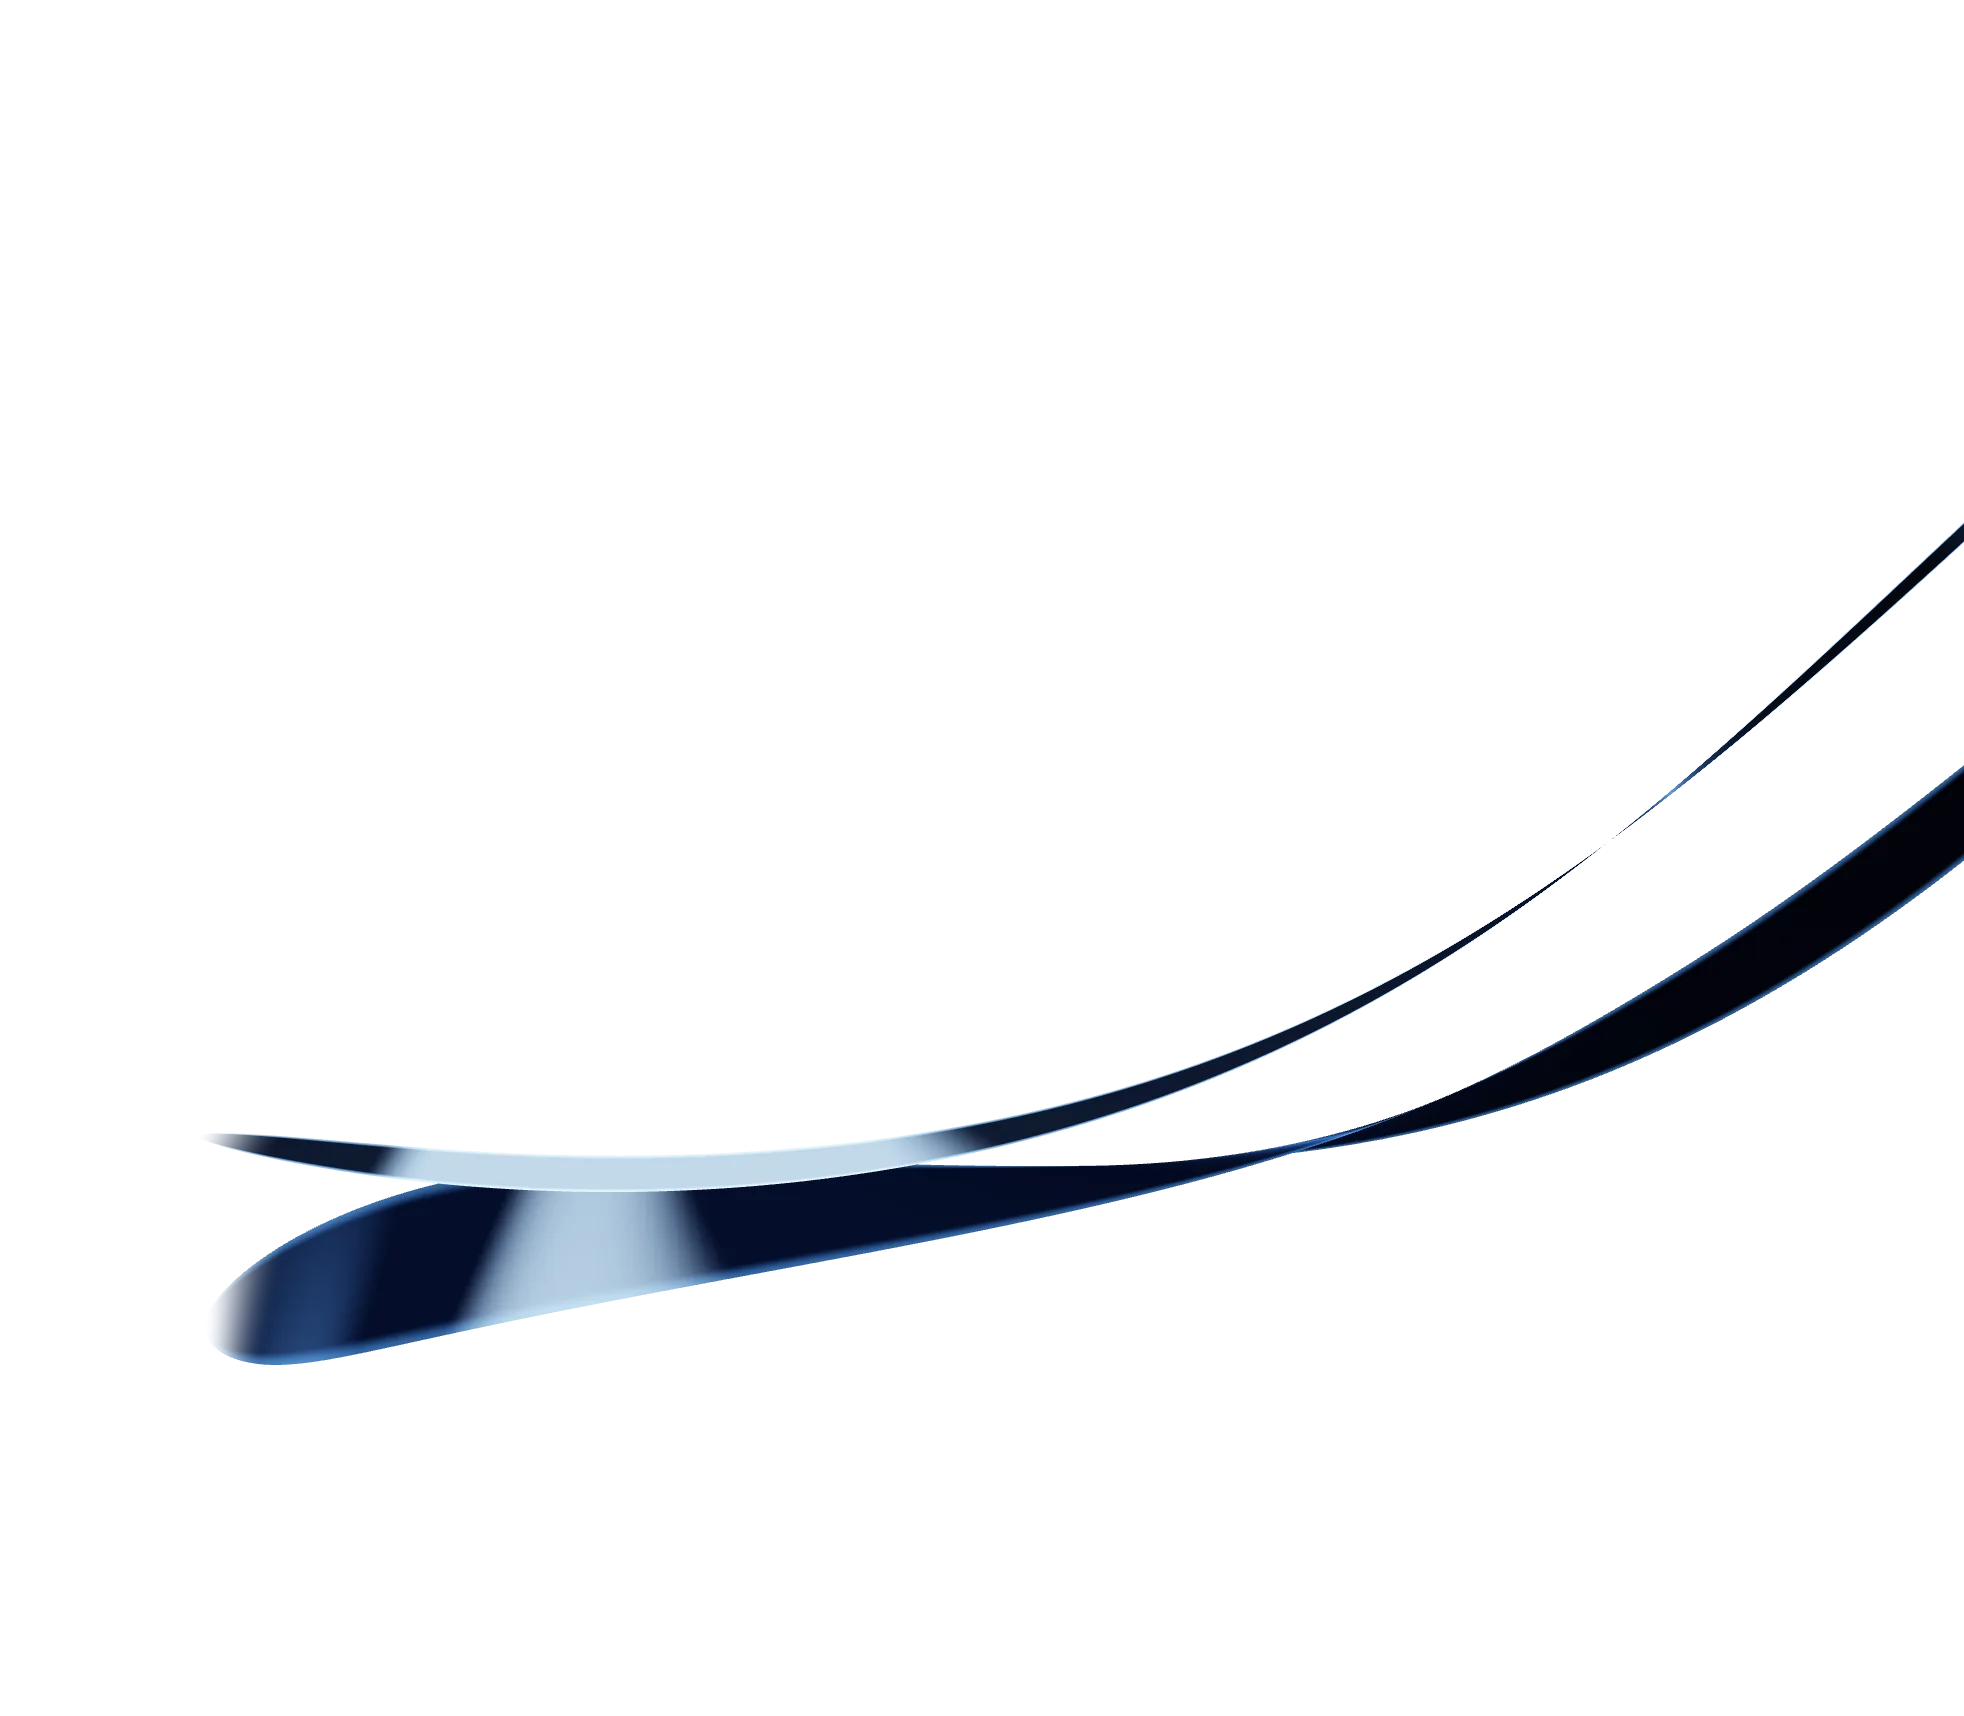
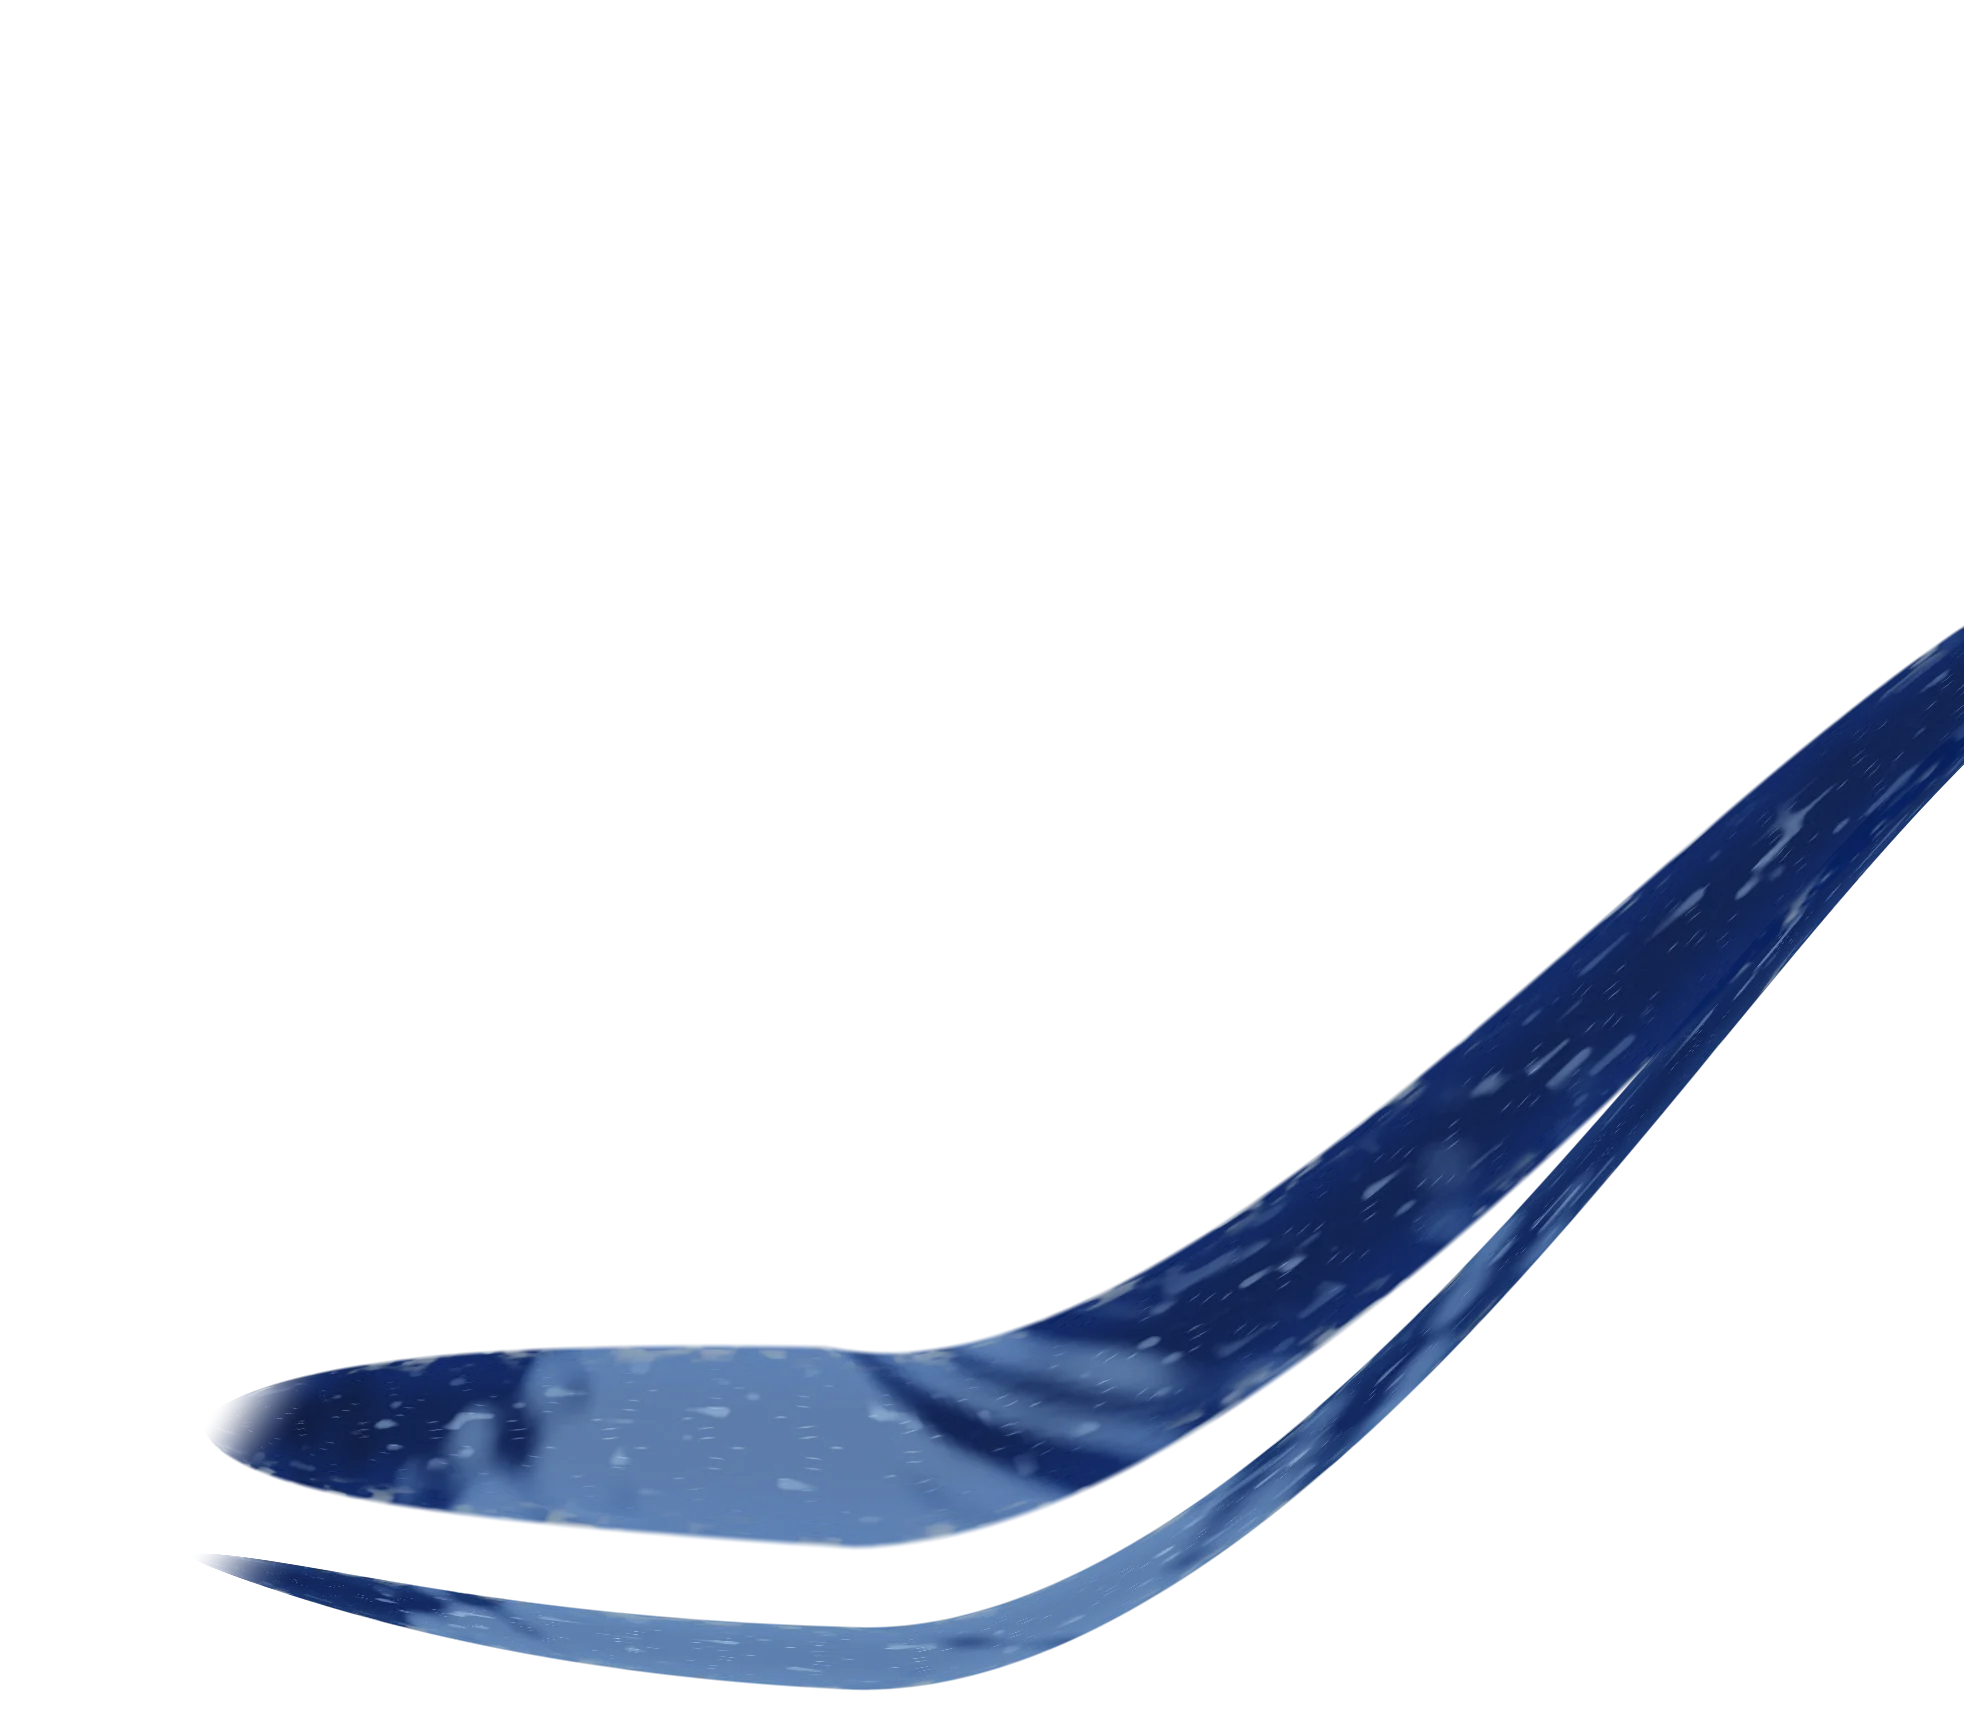
Hero preview: ribbon becomes flowing river water (ripples, glints, foam, caustics)
Claude-Session: https://claude.ai/code/session_01YW5GWSFXy2DhoF652oL58q

diff --git a/hero3d/hero.js b/hero3d/hero.js
@@ -90,26 +90,46 @@
   if(lowPower) dpr=Math.min(dpr,1);
   if(STILL){ lowPower=false; dpr=2; }
 
-  var VS='attribute vec3 aP;attribute vec3 aN;attribute vec2 aU;uniform mat4 uPV;uniform mat4 uM;varying vec3 vW;varying vec3 vN;varying vec2 vU;'+
-    'void main(){vec4 w=uM*vec4(aP,1.0);vW=w.xyz;vN=mat3(uM)*aN;vU=aU;gl_Position=uPV*w;}';
-  var FS='#ifdef GL_FRAGMENT_PRECISION_HIGH\nprecision highp float;\n#else\nprecision mediump float;\n#endif\nvarying vec3 vW;varying vec3 vN;varying vec2 vU;uniform vec3 uCam;uniform vec3 uL;uniform vec3 uF0;uniform float uSide;uniform float uCut;uniform float uTint;'+
-    'vec3 env(vec3 r){float up=r.y;vec3 c=mix(vec3(.003,.008,.03),vec3(.012,.045,.15),smoothstep(-.7,.6,up));'+
-    'c+=vec3(.62,.8,1.)*smoothstep(.68,.8,up)*smoothstep(.9,.6,abs(r.x))*1.7;'+
-    'c+=vec3(.08,.38,1.)*smoothstep(.6,.74,r.x)*1.8;'+
-    'c+=vec3(.3,.56,1.)*smoothstep(.74,.86,-r.x)*smoothstep(-.3,.5,up)*1.1;'+
-    'c+=vec3(.18,.45,1.)*exp(-abs(up+.08)*34.)*1.1;return c;}'+
+  var VS='attribute vec3 aP;attribute vec3 aN;attribute vec2 aU;attribute vec3 aT;attribute vec3 aS;uniform mat4 uPV;uniform mat4 uM;varying vec3 vW;varying vec3 vN;varying vec3 vT;varying vec3 vS;varying vec2 vU;varying float vZ;'+
+    'void main(){vec4 w=uM*vec4(aP,1.0);vW=w.xyz;vZ=aP.z;mat3 m=mat3(uM);vN=m*aN;vT=m*aT;vS=m*aS;vU=aU;gl_Position=uPV*w;}';
+  /* water: flowing ripples (analytic waves + noise), fresnel reflection of a soft sky, deep-to-shallow body colour,
+     caustic light, sun glints and foam along the banks. Everything flows along the river (+u). */
+  var FS='#ifdef GL_FRAGMENT_PRECISION_HIGH\nprecision highp float;\n#else\nprecision mediump float;\n#endif\n'+
+    'varying vec3 vW;varying vec3 vN;varying vec3 vT;varying vec3 vS;varying vec2 vU;varying float vZ;uniform vec3 uCam;uniform vec3 uL;uniform float uSide;uniform float uCut;uniform float uTint;uniform float uT;'+
+    'float hash(vec2 p){return fract(sin(dot(p,vec2(127.1,311.7)))*43758.5453);}'+
+    'float noise(vec2 p){vec2 i=floor(p),f=fract(p);f=f*f*(3.-2.*f);return mix(mix(hash(i),hash(i+vec2(1.,0.)),f.x),mix(hash(i+vec2(0.,1.)),hash(i+vec2(1.,1.)),f.x),f.y);}'+
+    'vec3 sky(vec3 r){float up=r.y;vec3 c=mix(vec3(.004,.012,.05),vec3(.025,.09,.3),smoothstep(-.4,.7,up));'+
+    'c+=vec3(.55,.75,1.)*smoothstep(.78,.96,up)*.6;c+=vec3(.15,.42,1.)*exp(-abs(up-.05)*22.)*.35;'+
+    'c+=vec3(.2,.5,1.)*smoothstep(.65,.9,r.x)*.4;return c;}'+
     'void main(){'+
-    'if(uSide>.5&&uSide<1.5){if(vW.z<uCut)discard;}else if(uSide<.5){if(vW.z>=uCut)discard;}'+
-    'vec3 N=normalize(vN);if(!gl_FrontFacing)N=-N;vec3 V=normalize(uCam-vW);'+
-    'float nv=max(dot(N,V),0.);vec3 F=uF0+(1.-uF0)*pow(1.-nv,5.);'+
-    'vec3 col=env(reflect(-V,N))*F;'+
-    'vec3 L=normalize(uL);col+=pow(max(dot(reflect(-L,N),V),0.),70.)*vec3(.9,.95,1.)*1.3;'+
-    'col+=pow(max(dot(reflect(-normalize(vec3(-1.,.3,.6)),N),V),0.),30.)*vec3(.15,.4,1.)*.6;'+
-    'col+=vec3(.02,.05,.14)*max(dot(N,L),0.);'+
-    'float e=smoothstep(.40,.5,abs(vU.y-.5));col+=vec3(.25,.55,1.)*e*(.7+uTint);'+
-    'col=mix(col,vec3(.55,.75,1.)*col.b*1.4,uTint*.35);'+
-    'col=1.-exp(-col*1.2);'+
-    'float a=smoothstep(0.,.07,vU.x)*smoothstep(1.,.9,vU.x);'+
+    'if(uSide>.5&&uSide<1.5){if(vZ<uCut)discard;}else if(uSide<.5){if(vZ>=uCut)discard;}'+
+    'float fl=uT*1.5;vec2 q=vec2(vU.x*30.,vU.y*4.);'+
+    'vec2 g=vec2(1.,.35)*cos(q.x+q.y*.35-fl)*.5'+
+    '+vec2(1.7,-.8)*cos(q.x*1.7-q.y*.8-fl*1.45+1.3)*.3'+
+    '+vec2(2.9,1.6)*cos(q.x*2.9+q.y*1.6-fl*2.1+2.1)*.16'+
+    '+vec2(4.7,-2.3)*cos(q.x*4.7-q.y*2.3-fl*2.9+.7)*.09;'+
+    'vec2 nq=vec2(q.x*5.-fl*3.6,q.y*6.);float n0=noise(nq),nx=noise(nq+vec2(.05,0.)),ny=noise(nq+vec2(0.,.05));'+
+    'g+=vec2(nx-n0,ny-n0)/.05*.05;'+
+    'vec3 N=normalize(vN);if(!gl_FrontFacing)N=-N;vec3 T=normalize(vT),S=normalize(vS);'+
+    'N=normalize(N-(T*g.x+S*g.y)*.14);'+
+    'vec3 V=normalize(uCam-vW);float nv=max(dot(N,V),0.);float F=.02+.83*pow(1.-nv,5.);'+
+    'float ac=1.-abs(vU.y-.5)*2.;'+
+    'vec3 deep=mix(vec3(.002,.018,.085),vec3(.02,.12,.4),uTint),shallow=mix(vec3(.02,.2,.72),vec3(.2,.5,1.),uTint);'+
+    'vec3 body=mix(shallow,deep,smoothstep(.05,.85,ac));'+
+    'float c1=noise(vec2(q.x*.9-fl*.9,q.y*1.4)*3.4),c2=noise(vec2(q.x*1.15-fl*1.25+5.2,q.y*1.7+2.)*3.4);'+
+    'float caus=pow(clamp(1.-abs(c1-c2)*2.6,0.,1.),10.);body+=vec3(.3,.62,1.)*caus*.3*ac;'+
+    'vec3 col=mix(body,sky(reflect(-V,N)),F);'+
+    'vec3 L=normalize(uL);float rl=max(dot(reflect(-L,N),V),0.);'+
+    'col+=vec3(1.)*pow(rl,260.)*3.;col+=vec3(.3,.58,1.)*pow(rl,20.)*.35;'+
+    'float w1=sin(vU.x*150.-fl*6.+3.*sin(vU.y*21.+vU.x*9.)),w2=sin(vU.y*62.+vU.x*34.-fl*1.5);'+
+    'float spk=pow(max(0.,w1*w2),14.);col+=vec3(.85,.93,1.)*spk*(.35+pow(rl,4.)*1.4)*ac;'+
+    'float st=noise(vec2(vU.x*70.-fl*4.2,vU.y*14.));col+=vec3(.65,.82,1.)*smoothstep(.74,.95,st)*.45*ac;'+
+    'float ed=smoothstep(.33,.49,abs(vU.y-.5));'+
+    'float fo=.6*noise(vec2(vU.x*70.-fl*4.,vU.y*18.))+.4*noise(vec2(vU.x*150.-fl*6.,vU.y*40.));'+
+    'float foam=ed*smoothstep(.45,.8,fo);col=mix(col,vec3(.82,.92,1.),foam*.6);'+
+    'col=1.-exp(-col*1.35);'+
+    'float a=smoothstep(0.,.08,vU.x)*smoothstep(1.,.88,vU.x)*smoothstep(.5,.46,abs(vU.y-.5));'+
+    'a*=clamp(.66+F*.35+foam*.3+pow(rl,260.)+spk*.2,0.,1.);'+
     'gl_FragColor=vec4(col*a,a);}';
   var PVS='attribute vec3 aP;attribute float aS;uniform mat4 uPV;uniform float uT;uniform float uPx;varying float vA;'+
     'void main(){vec3 p=aP;p.y=mod(p.y+uT*.06*aS+3.,6.)-3.;p.x+=sin(uT*.2+aS*9.)*.15;vec4 c=uPV*vec4(p,1.);gl_Position=c;'+
@@ -122,8 +142,8 @@
   /* ribbon geometry, rebuilt on the CPU each frame (cheap: ~1k vertices) */
   var SEG=small?120:220;
   function ribbonSpec(i){ return i===0
-    ? {w:.62,yo:0,   ph:0,   z:1, f0:[.08,.3,1.], tint:0}
-    : {w:.15,yo:-.3, ph:1.3, z:.9,f0:[.5,.7,1.],  tint:1}; }
+    ? {w:.74,yo:0,   ph:0,   z:1, tint:0}
+    : {w:.2, yo:-.42,ph:1.3, z:.9, tint:1}; }
   function center(u,t,s,o){
     o[0]=-2.2+5.4*u;
     var k=Math.min(1,Math.max(0,(u-.36)/.64));k=k*k*(3-2*k);
@@ -138,7 +158,7 @@
       // B0 = T x Z, N0 = B0 x T
       var bx=Ty,by=-Tx,bz=0,bl=Math.hypot(bx,by)||1;bx/=bl;by/=bl;
       var nx=by*Tz-bz*Ty,ny=bz*Tx-bx*Tz,nz=bx*Ty-by*Tx;
-      var ph=.15+u*2.3+.28*Math.sin(t*.25+u*4.+s.ph);
+      var ph=.62+.4*u+.14*Math.sin(t*.25+u*4.+s.ph);
       var c=Math.cos(ph),sn=Math.sin(ph);
       var sx=bx*c+nx*sn,sy=by*c+ny*sn,sz=bz*c+nz*sn;
       var w=s.w*Math.pow(Math.sin(Math.PI*u),.55)*.5;
@@ -146,7 +166,7 @@
       var Nx=Ty*sz-Tz*sy,Ny=Tz*sx-Tx*sz,Nz=Tx*sy-Ty*sx;
       for(var e=-1;e<=1;e+=2){
         buf[k++]=C[0]+sx*w*e;buf[k++]=C[1]+sy*w*e;buf[k++]=C[2]+sz*w*e;
-        buf[k++]=Nx;buf[k++]=Ny;buf[k++]=Nz;buf[k++]=u;buf[k++]=e<0?0:1;
+        buf[k++]=Nx;buf[k++]=Ny;buf[k++]=Nz;buf[k++]=u;buf[k++]=e<0?0:1;buf[k++]=Tx;buf[k++]=Ty;buf[k++]=Tz;buf[k++]=sx;buf[k++]=sy;buf[k++]=sz;
       }
     }
   }
@@ -160,11 +180,11 @@
     var gl=canvas.getContext('webgl',{alpha:true,premultipliedAlpha:true,antialias:!lowPower,depth:true,powerPreference:lowPower?'low-power':'high-performance',failIfMajorPerformanceCaveat:true,preserveDrawingBuffer:STILL});
     if(!gl) throw new Error('no webgl');
     var p=prog(gl,VS,FS), o={gl:gl,canvas:canvas,side:side,p:p,rib:[]};
-    o.loc={aP:gl.getAttribLocation(p,'aP'),aN:gl.getAttribLocation(p,'aN'),aU:gl.getAttribLocation(p,'aU')};
-    ['uPV','uM','uCam','uL','uF0','uSide','uCut','uTint'].forEach(function(n){o.loc[n]=gl.getUniformLocation(p,n);});
+    o.loc={aP:gl.getAttribLocation(p,'aP'),aN:gl.getAttribLocation(p,'aN'),aU:gl.getAttribLocation(p,'aU'),aT:gl.getAttribLocation(p,'aT'),aS:gl.getAttribLocation(p,'aS')};
+    ['uPV','uM','uCam','uL','uSide','uCut','uTint','uT'].forEach(function(n){o.loc[n]=gl.getUniformLocation(p,n);});
     var idx=[];for(var i=0;i<SEG;i++){var a=i*2;idx.push(a,a+1,a+2,a+1,a+3,a+2);}
     o.ib=gl.createBuffer();gl.bindBuffer(gl.ELEMENT_ARRAY_BUFFER,o.ib);gl.bufferData(gl.ELEMENT_ARRAY_BUFFER,new Uint16Array(idx),gl.STATIC_DRAW);o.n=idx.length;
-    for(var r=0;r<2;r++){var b=gl.createBuffer();gl.bindBuffer(gl.ARRAY_BUFFER,b);gl.bufferData(gl.ARRAY_BUFFER,(SEG+1)*2*8*4,gl.DYNAMIC_DRAW);o.rib.push({b:b,data:new Float32Array((SEG+1)*2*8),s:ribbonSpec(r)});}
+    for(var r=0;r<2;r++){var b=gl.createBuffer();gl.bindBuffer(gl.ARRAY_BUFFER,b);gl.bufferData(gl.ARRAY_BUFFER,(SEG+1)*2*14*4,gl.DYNAMIC_DRAW);o.rib.push({b:b,data:new Float32Array((SEG+1)*2*14),s:ribbonSpec(r)});}
     if(side===0 && !STILL){
       var NP=lowPower?50:130, pd=new Float32Array(NP*4);
       for(var j=0;j<NP;j++){pd[j*4]=(Math.random()*2-1)*4.2;pd[j*4+1]=(Math.random()*2-1)*3;pd[j*4+2]=-3.2+Math.random()*3.4;pd[j*4+3]=Math.random();}
@@ -196,12 +216,11 @@
     gl.bindBuffer(gl.ELEMENT_ARRAY_BUFFER,o.ib);
     for(var r=o.rib.length-1;r>=0;r--){var rb=o.rib[r];
       buildRibbon(rb.data,t,rb.s);gl.bindBuffer(gl.ARRAY_BUFFER,rb.b);gl.bufferSubData(gl.ARRAY_BUFFER,0,rb.data);
-      gl.enableVertexAttribArray(o.loc.aP);gl.vertexAttribPointer(o.loc.aP,3,gl.FLOAT,false,32,0);
-      gl.enableVertexAttribArray(o.loc.aN);gl.vertexAttribPointer(o.loc.aN,3,gl.FLOAT,false,32,12);
-      gl.enableVertexAttribArray(o.loc.aU);gl.vertexAttribPointer(o.loc.aU,2,gl.FLOAT,false,32,24);
-      gl.uniform3fv(o.loc.uF0,rb.s.f0);gl.uniform1f(o.loc.uTint,rb.s.tint);
+      [['aP',3,0],['aN',3,12],['aU',2,24],['aT',3,32],['aS',3,44]].forEach(function(a){var l=o.loc[a[0]];if(l<0)return;gl.enableVertexAttribArray(l);gl.vertexAttribPointer(l,a[1],gl.FLOAT,false,56,a[2]);});
+      gl.uniform1f(o.loc.uTint,rb.s.tint);gl.uniform1f(o.loc.uT,t);
       gl.drawElements(gl.TRIANGLES,o.n,gl.UNSIGNED_SHORT,0);
     }
+    ['aP','aN','aU','aT','aS'].forEach(function(n){if(o.loc[n]>=0)gl.disableVertexAttribArray(o.loc[n]);});
   }
   function fail(){ glOK=false; hero.classList.remove('gl-on'); R=[]; }
 
@@ -238,7 +257,7 @@
       for(var i=0;i<R.length;i++) draw(R[i],simT,PV,M,[0,.05,8.4],L);
       // adaptive quality: watch real frame time
       frames++; acc+=dt;
-      if(frames>=45){ var avg=acc/frames; frames=0; acc=0;
+      if(frames>=45 && !STILL){ var avg=acc/frames; frames=0; acc=0;
         if(avg>24 && dpr>.75){ dpr=Math.max(.75,dpr-.25); }
         else if(avg>40){ if(++slowStreak>=2){ fail(); } }
         else slowStreak=0;
